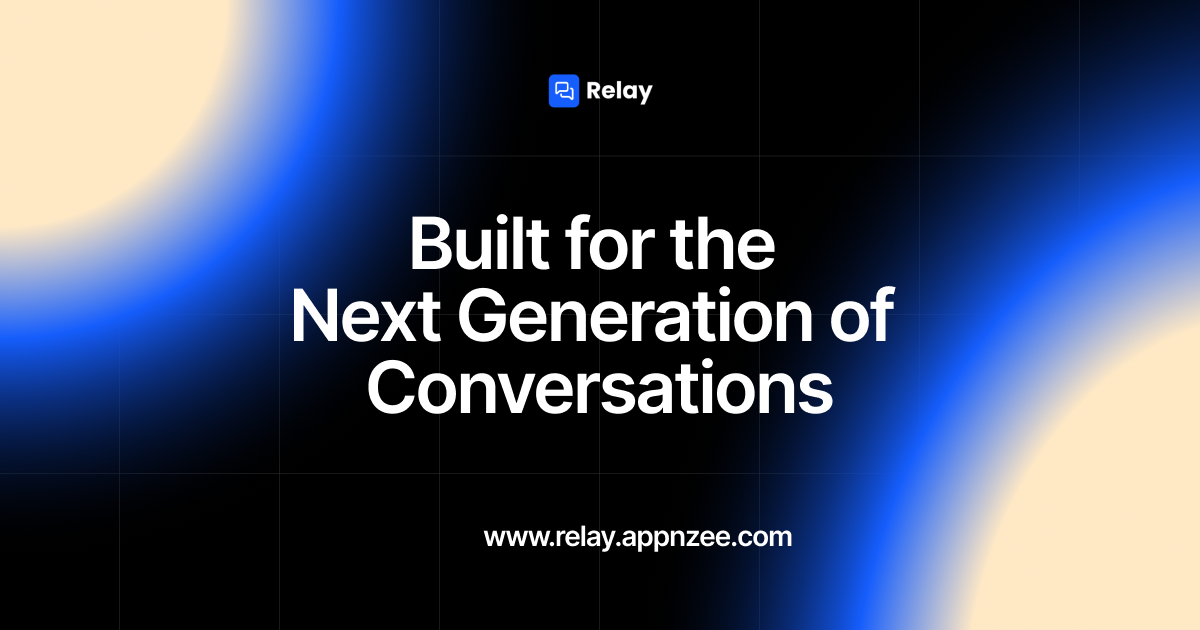
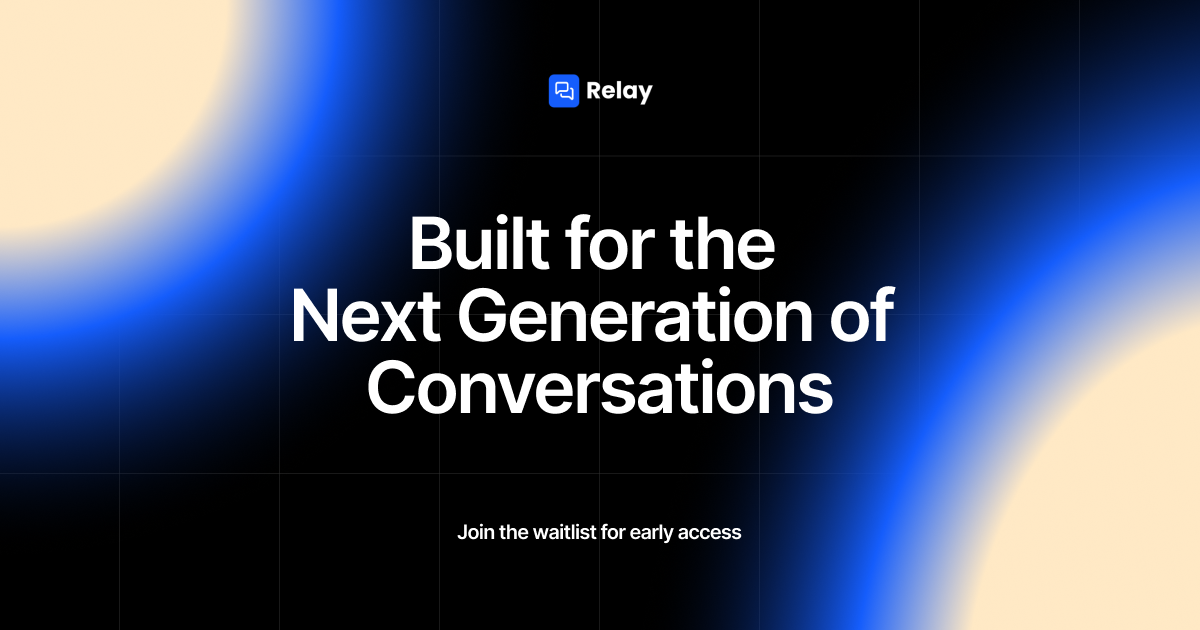
Update index.html, og.png, and README.md files

Changed region(s): [[0.37, 0.8143, 0.6783, 0.8746]]

diff --git a/README.md b/README.md
@@ -2,7 +2,7 @@
 
 <div align="center">
 
-<img  src="https://ik.imagekit.io/yzf6voovx/og.png?updatedAt=1755881775317"></img>
+<img  src="https://ik.imagekit.io/yzf6voovx/og.png?updatedAt=1756007129109"></img>
 
 **A modern, intelligent messaging platform that seamlessly integrates AI assistants with real-time human conversations**
 
